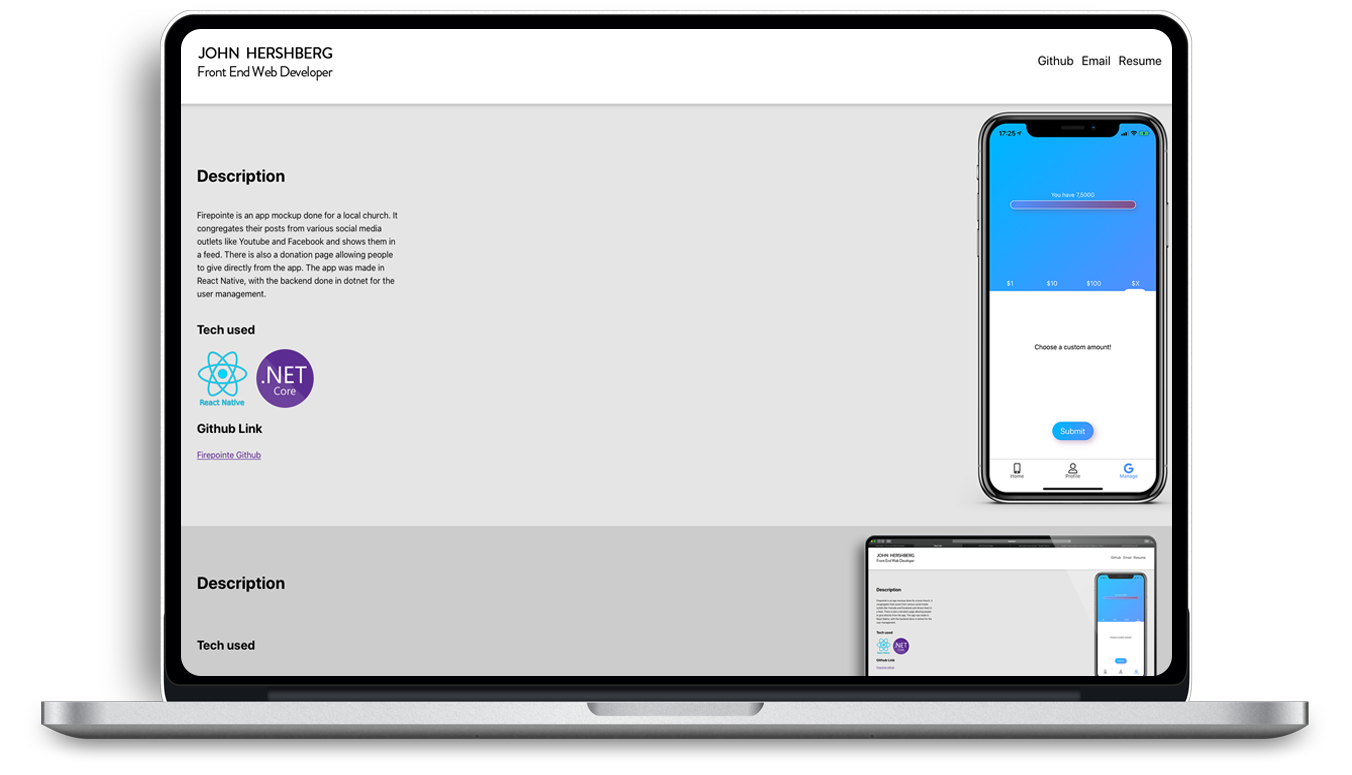
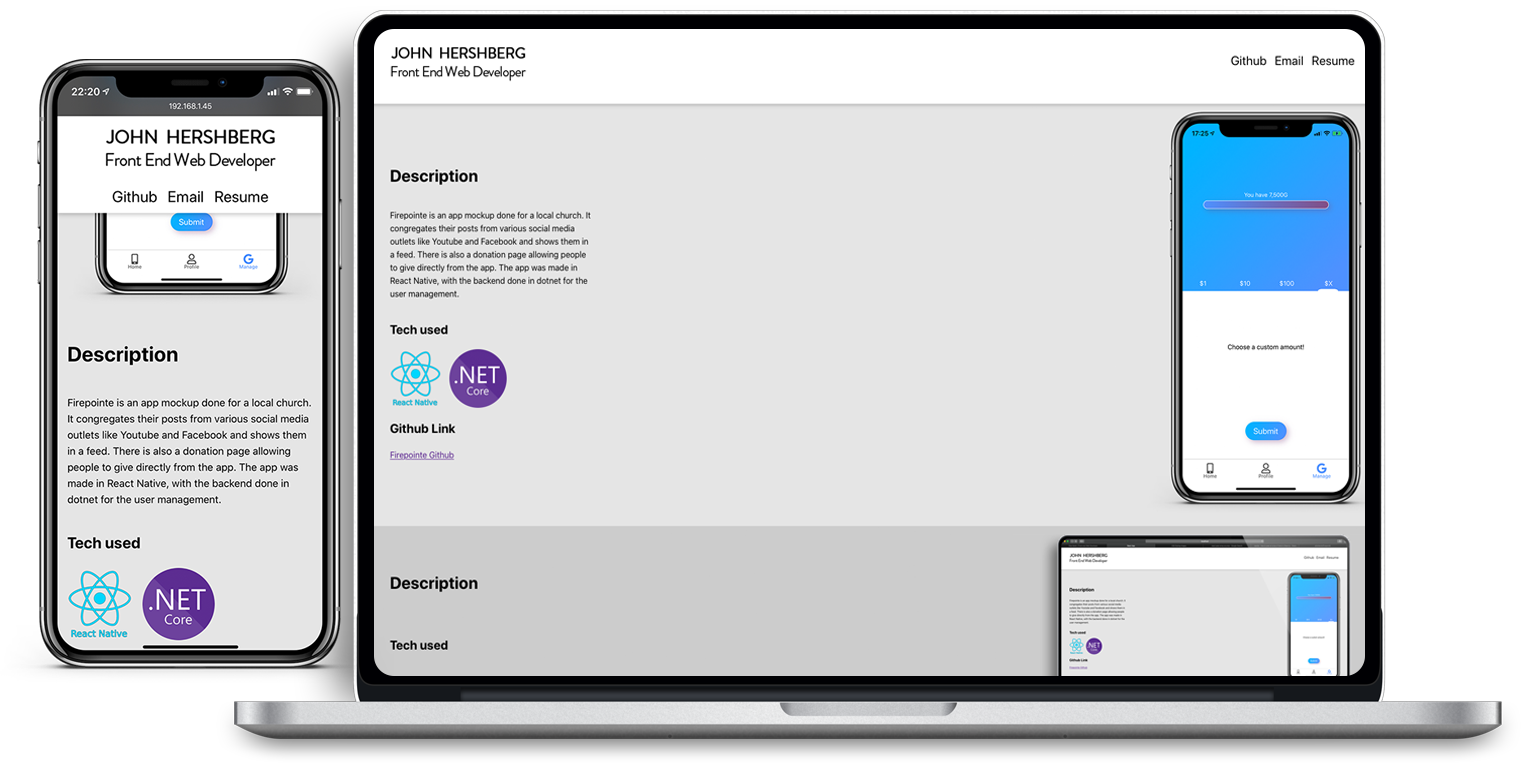
Split individual component into PortfolioItem and Firepointe

diff --git a/src/pages/homepage.component.tsx b/src/pages/homepage.component.tsx
@@ -5,10 +5,12 @@ import TopBar from "../components/topBar/topBar.component";
 import "./homepage.styles.scss";
 
 import PortfolioSite from "../components/portfolioItem/individualContent/portfolioSite.component";
-
-import laptopPortfolio from "../Assets/Laptop_Portfolio.png";
+import FirePointe from "../components/portfolioItem/individualContent/firePointe.component";
 
 import rnLogo from "../Assets/Logos/reactnative.png";
+import reactjsLogo from "../Assets/Logos/reactjs.png";
+import sassLogo from "../Assets/Logos/sass.png";
+import typescriptLogo from "../Assets/Logos/typescript.png";
 import dotnetLogo from "../Assets/Logos/dotnet.png";
 
 function HomePage() {
@@ -26,22 +28,27 @@ function HomePage() {
         <PortfolioItem
           bgcolor={light}
           description={
+            "This website. Done as a project to learn React and Sass."
+          }
+          githubLink={"https://github.com/Johnhersh/Portfolio"}
+          icons={[reactjsLogo, sassLogo, typescriptLogo]}
+        >
+          <PortfolioSite />
+        </PortfolioItem>
+
+        <PortfolioItem
+          bgcolor={dark}
+          description={
             "Firepointe is an app mockup done for a local church. It congregates their posts from various social media outlets like Youtube and Facebook and shows them in a feed. There is also a donation page allowing people to give directly from the app. The app was made in React Native, with the backend done in dotnet for the user management."
           }
           githubLink={"https://github.com/Johnhersh/FirepointE"}
           icons={[rnLogo, dotnetLogo]}
         >
-          <PortfolioSite />
+          <FirePointe />
         </PortfolioItem>
-        <PortfolioItem
-          bgcolor={dark}
-          description={
-            "This website. Done as a project to learn React and Sass."
-          }
-          image={laptopPortfolio}
-          icons={[]}
-        />
+
         <PortfolioItem bgcolor={light} image={""} icons={[]} />
+
         <PortfolioItem bgcolor={dark} image={""} icons={[]} />
       </main>
     </div>

diff --git a/src/components/portfolioItem/individualContent/portfolioSite.styles.scss b/src/components/portfolioItem/individualContent/portfolioSite.styles.scss
@@ -2,10 +2,6 @@
 
 .portfolioSiteContainer {
   flex: 1;
-  display: flex;
-  flex-direction: row;
-  align-items: center;
-  justify-content: flex-end;
 
   width: 100%;
   height: auto;
@@ -16,40 +12,22 @@
   }
 }
 
-.portfolioVideo {
-  flex: 0;
-
-  max-height: 750px;
-  min-height: 450px;
-  max-width: 450px;
-  min-width: 350px;
-
-  width: 100%;
-  height: auto;
-
-  border-radius: 25px;
-  overflow: hidden;
-  z-index: 1; // To make sure the rounded corners hide the video once it starts playing
-
-  background-color: darkseagreen;
-
+.portfolioImage {
+  flex: 1;
+  display: flex;
+  flex-direction: row;
+  align-items: center;
+  justify-content: flex-end;
   @media screen and (max-width: $responsive-width) {
-    flex: 1;
-
-    height: auto;
-    width: 348px;
+    justify-content: center;
   }
 }
 
-.portfolioImage {
-  flex: 0;
-}
-
 .contentImage {
-  margin-top: 2rem;
+  max-width: 100%;
+  max-height: 100%;
 
   @media screen and (max-width: $responsive-width) {
-    height: auto;
-    width: 100%;
+    max-width: 80%;
   }
 }

diff --git a/src/components/portfolioItem/individualContent/firePointe.styles.scss b/src/components/portfolioItem/individualContent/firePointe.styles.scss
@@ -1,0 +1,55 @@
+@import "../../../pages/homepage.styles";
+
+.firepointeContainer {
+  flex: 1;
+  display: flex;
+  flex-direction: row;
+  align-items: center;
+  justify-content: flex-end;
+
+  width: 100%;
+  height: auto;
+
+  @media screen and (max-width: $responsive-width) {
+    flex-direction: column;
+    flex-direction: column-reverse;
+  }
+}
+
+.firepointeVideo {
+  flex: 0;
+
+  max-height: 750px;
+  min-height: 450px;
+  max-width: 450px;
+  min-width: 350px;
+
+  width: 100%;
+  height: auto;
+
+  border-radius: 25px;
+  overflow: hidden;
+  z-index: 1; // To make sure the rounded corners hide the video once it starts playing
+
+  background-color: darkseagreen;
+
+  @media screen and (max-width: $responsive-width) {
+    flex: 1;
+
+    height: auto;
+    width: 348px;
+  }
+}
+
+.firepointeImage {
+  flex: 0;
+}
+
+.firepointeImage {
+  margin-top: 2rem;
+
+  @media screen and (max-width: $responsive-width) {
+    height: auto;
+    width: 100%;
+  }
+}

diff --git a/src/components/portfolioItem/individualContent/portfolioSite.component.tsx b/src/components/portfolioItem/individualContent/portfolioSite.component.tsx
@@ -1,30 +1,14 @@
 import React from "react";
-import Vimeo from "@u-wave/react-vimeo";
 
 import "./portfolioSite.styles.scss";
 
-import screenshotFirepointe from "../../../Assets/Phone_Firepointe.png";
+import laptopPortfolio from "../../../Assets/Laptop_Portfolio.png";
 
 function PortfolioSite() {
   return (
     <div className="portfolioSiteContainer">
-      <Vimeo
-        video="375836140"
-        className="portfolioVideo"
-        start={3}
-        responsive
-        showPortrait={false}
-        showTitle={false}
-        showByline={false}
-        controls={false}
-        loop={true}
-      />
       <div className="portfolioImage">
-        <img
-          src={screenshotFirepointe}
-          className="contentImage"
-          alt="screenshot"
-        />
+        <img src={laptopPortfolio} className="contentImage" alt="screenshot" />
       </div>
     </div>
   );

diff --git a/src/components/portfolioItem/individualContent/firePointe.component.tsx b/src/components/portfolioItem/individualContent/firePointe.component.tsx
@@ -1,0 +1,33 @@
+import React from "react";
+import Vimeo from "@u-wave/react-vimeo";
+
+import "./firePointe.styles.scss";
+
+import screenshotFirepointe from "../../../Assets/Phone_Firepointe.png";
+
+function FirePointe() {
+  return (
+    <div className="firepointeContainer">
+      <Vimeo
+        video="375836140"
+        className="firepointeVideo"
+        start={3}
+        responsive
+        showPortrait={false}
+        showTitle={false}
+        showByline={false}
+        controls={false}
+        loop={true}
+      />
+      <div className="firepointeImage">
+        <img
+          src={screenshotFirepointe}
+          className="firepointeImage"
+          alt="screenshot"
+        />
+      </div>
+    </div>
+  );
+}
+
+export default FirePointe;

diff --git a/src/components/portfolioItem/portfolioItem.component.tsx b/src/components/portfolioItem/portfolioItem.component.tsx
@@ -18,7 +18,9 @@ function PortfolioItem(props: any) {
           ))}
         </div>
         <h2>Github Link</h2>
-        <a href={props.githubLink}>Firepointe Github</a>
+        <a href={props.githubLink} target="_blank">
+          Github Link
+        </a>
       </div>
       <div className="portfolioChildrenContainer">{props.children}</div>
     </div>

diff --git a/src/components/portfolioItem/portfolioItem.styles.scss b/src/components/portfolioItem/portfolioItem.styles.scss
@@ -48,7 +48,7 @@
   align-items: row;
 
   img {
-    height: 7rem;
+    height: 4rem;
     margin-right: 1rem;
   }
 }
